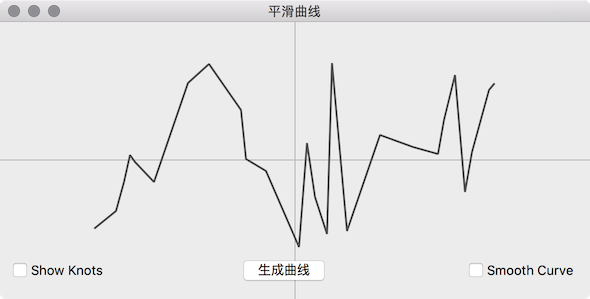
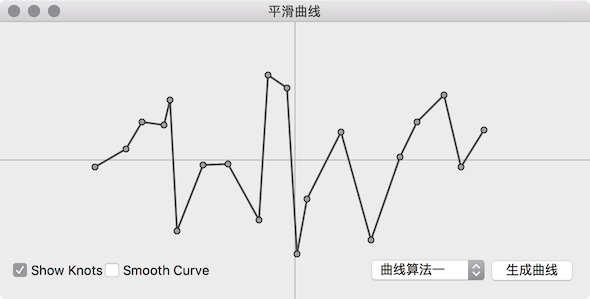
平滑曲线

diff --git a/source/_posts/qtbook-paint-smooth-curve.md b/source/_posts/qtbook-paint-smooth-curve.md
@@ -9,7 +9,7 @@ tags: QtBook
 
 正在聚精会神炒股的老板一瞅，气不打一处来：“你这画的是什么鬼，这个线直来直去的，太不专业了”，抬头指着屏幕上的炒股软件，瞅着迷离的眼神：“看看人家的这个曲线，就像少女的皮肤般那么的柔顺、平滑”，口气马上一百八十度大转弯：“在看看你的，像八十岁老头的那样全是褶皱！” 擦完脸上的口水，赶快想办法去吧。<!--more-->
 
-创建平滑曲线，有很多种方式，可以使用现成的库，例如 QWT，QCustomPlot 等，也可以研究平滑曲线的理论，实现平滑曲线的插值函数。这里我们提供一个实现，利用 QPainterPath，根据曲线上的点创建平滑曲线，使用分三步：
+创建平滑曲线，有很多种方式，可以使用现成的库，例如 QWT，QCustomPlot 等，也可以研究平滑曲线的理论，实现平滑曲线的插值函数。这里我们提供二个实现，利用 QPainterPath，根据曲线上的点创建平滑曲线，他们各有利弊，使用分三步：
 
 ```cpp
 // [1] 把曲线上的点放到 QList 里
@@ -19,31 +19,34 @@ knots << QPointF(x1, y1);
 knots << QPointF(xn, yn);
 
 // [2] 创建平滑曲线
-QPainterPath smoothCurve = SmoothCurveGenerator::generateSmoothCurve(knots);
+QPainterPath smoothCurve1 = SmoothCurveGenerator1::generateSmoothCurve(knots);
+QPainterPath smoothCurve2 = SmoothCurveGenerator2::generateSmoothCurve(knots);
 
 // [3] 绘制曲线
-painter.drawPath(smoothCurve);
+painter.drawPath(smoothCurve1);
+painter.drawPath(smoothCurve2);
 ```
 
 最后画出来的曲线效果如下，这次应该不会被喷了吧：
 
-![](/img/qtbook/paint/Paint-SmoothCurve.png)
+![](/img/qtbook/paint/Paint-SmoothCurve-1.png)  
+![](/img/qtbook/paint/Paint-SmoothCurve-2.png)
 
 Qt 中可以使用 `QPainterPath::cubicTo()` 函数实现绘制平滑曲线，绘制平滑曲线的关键是控制点的计算，sp 为线段的起始点，ep 为线段的终点，c1，c2 为贝塞尔曲线的控制点，其坐标计算如下
 
 ![](/img/qtbook/paint/Paint-SmoothCurve-Theory.png)
 
-类 SmoothCurveGenerator 使用上面的原理生成平滑曲线
+类 SmoothCurveGenerator1 使用上面的原理生成平滑曲线
 
 ```cpp
-#ifndef SMOOTHCURVEGENERATOR_H
-#define SMOOTHCURVEGENERATOR_H
+#ifndef SMOOTHCURVEGENERATOR1_H
+#define SMOOTHCURVEGENERATOR1_H
 
 #include <QList>
 #include <QPointF>
 #include <QPainterPath>
 
-class SmoothCurveGenerator {
+class SmoothCurveGenerator1 {
 public:
     /**
      * 传入曲线上的点的 list，创建平滑曲线
@@ -54,13 +57,13 @@ public:
     static QPainterPath generateSmoothCurve(const QList<QPointF> &points);
 };
 
-#endif // SMOOTHCURVEGENERATOR_H
+#endif // SMOOTHCURVEGENERATOR1_H
 ```
 
 ```cpp
-#include "SmoothCurveGenerator.h"
+#include "SmoothCurveGenerator1.h"
 
-QPainterPath SmoothCurveGenerator::generateSmoothCurve(const QList<QPointF> &points) {
+QPainterPath SmoothCurveGenerator1::generateSmoothCurve(const QList<QPointF> &points) {
     if (points.size() == 0) {
         return QPainterPath();
     }
@@ -82,9 +85,9 @@ QPainterPath SmoothCurveGenerator::generateSmoothCurve(const QList<QPointF> &poi
 }
 ```
 
-接下来就介绍一下 SmoothCurveGenerator 的使用案例，就是开头被喷的那个曲线图的平滑实现。
+接下来就介绍一下生成平滑曲线的具体使用方法，就是开头被喷的那个曲线图的平滑实现。
 
-在 SmoothCurveWidget.ui 上如图放两个 QCheckBox，命名为 showKnotsCheckBox 和 showSmoothCurveCheckBox，还有一个 QPushButton，用于点击重新生成曲线：
+在 SmoothCurveWidget.ui 上如图放两个 QCheckBox，命名为 showKnotsCheckBox 和 showSmoothCurveCheckBox，QPushButton 用于点击重新生成曲线，ComboBox 用于选择生成曲线的算法：
 
 ![](/img/qtbook/paint/Paint-SmoothCurve-Ui.png)
 
@@ -119,7 +122,8 @@ private slots:
 private:
     Ui::SmoothCurveWidget *ui;
     QList<QPointF> knots;        // 曲线上的点
-    QPainterPath smoothCurve;    // 平滑曲线
+    QPainterPath smoothCurve1;   // 平滑曲线
+    QPainterPath smoothCurve2;   // 平滑曲线
     QPainterPath nonSmoothCurve; // 直接连接点的非平滑曲线
 };
 
@@ -129,7 +133,8 @@ private:
 ```cpp
 #include "SmoothCurveWidget.h"
 #include "ui_SmoothCurveWidget.h"
-#include "SmoothCurveGenerator.h"
+#include "SmoothCurveGenerator1.h"
+#include "SmoothCurveGenerator2.h"
 
 #include <QPainter>
 #include <QtGlobal>
@@ -142,6 +147,7 @@ SmoothCurveWidget::SmoothCurveWidget(QWidget *parent) :
     connect(ui->generateCurveButton, SIGNAL(clicked(bool)), this, SLOT(generateCurves()));
     connect(ui->showKnotsCheckBox, SIGNAL(clicked(bool)), this, SLOT(update()));
     connect(ui->showSmoothCurveCheckBox, SIGNAL(clicked(bool)), this, SLOT(update()));
+    connect(ui->smoothCurveGeneratorComboBox, SIGNAL(currentIndexChanged(int)), this, SLOT(update()));
 
     ui->generateCurveButton->click();
 }
@@ -163,7 +169,13 @@ void SmoothCurveWidget::paintEvent(QPaintEvent *) {
 
     // showSmoothCurveCheckBox 被选中时显示平滑曲线，否则显示非平滑曲线
     painter.setPen(QPen(QColor(80, 80, 80), 2));
-    painter.drawPath(ui->showSmoothCurveCheckBox->isChecked() ? smoothCurve : nonSmoothCurve);
+    if (ui->showSmoothCurveCheckBox->isChecked() && ui->smoothCurveGeneratorComboBox->currentIndex() == 0) {
+        painter.drawPath(smoothCurve1);
+    } else if (ui->showSmoothCurveCheckBox->isChecked() && ui->smoothCurveGeneratorComboBox->currentIndex() == 1) {
+        painter.drawPath(smoothCurve2);
+    } else {
+        painter.drawPath(nonSmoothCurve);
+    }
 
     // 如果曲线上的点可见，则显示出来
     if (ui->showKnotsCheckBox->isChecked()) {
@@ -187,7 +199,8 @@ void SmoothCurveWidget::generateCurves() {
     }
 
     // 根据曲线上的点创建平滑曲线
-    smoothCurve = SmoothCurveGenerator::generateSmoothCurve(knots);
+    smoothCurve1 = SmoothCurveGenerator1::generateSmoothCurve(knots);
+    smoothCurve2 = SmoothCurveGenerator2::generateSmoothCurve(knots);
 
     // 连接点创建非平滑曲线曲线
     nonSmoothCurve = QPainterPath();
@@ -215,3 +228,157 @@ int main(int argc, char *argv[]) {
 ```
 
 为了让程序更具有普谝性，曲线上的点采用随机生成，所以每次生成的曲线是不一样的，选中 "Smooth Curve" 时显示为平滑曲线，没有选中则显示为非平滑的曲线。选中 "Show knots" 显示曲线上的点，反之则不显示。
+
+如果仔细观察 SmoothCurveGenerator1 生成的平滑曲线，会发现平滑曲线段之间会有很多小段的抖动，下面提供另一个也是使用 QPainterPath 实现平滑曲线的方法，可以解决平滑曲线段之间的抖动问题，但是曲线段在比较陡时，曲线上的值可能会超出曲线原来值的范围，但是总体上看效果更好，改编自 http://www.codeproject.com/Articles/31859/Draw-a-Smooth-Curve-through-a-Set-of-D-Points-wit，核心是使用曲线上的点计算出贝塞尔曲线的两个控制点，然后使用贝塞尔曲线生成平滑曲线，很惭愧的是生成控制点的算法细节我没看懂，只不过是作了一次搬运工，把程序移植到了 Qt 上，有兴趣的话，请自行参考吧，不过即使没有理解控制点的生成算法也不影响使用。
+
+```cpp
+#ifndef SMOOTHCURVEGENERATOR2_H
+#define SMOOTHCURVEGENERATOR2_H
+
+#include <QList>
+#include <QPointF>
+#include <QPainterPath>
+
+class SmoothCurveGenerator2 {
+public:
+    /**
+     * 传入曲线上的点的 list，创建平滑曲线
+     * @param points - 曲线上的点
+     * @return - 返回使用给定的点创建的 QPainterPath 表示的平滑曲线
+     */
+    static QPainterPath generateSmoothCurve(const QList<QPointF> &points);
+
+private:
+    /**
+     * Solves a tridiagonal system for one of coordinates (x or y)
+     * of first Bezier control points.
+     * @param result - Solution vector.
+     * @param rhs - Right hand side vector.
+     * @param n - Size of rhs.
+     */
+    static void calculateFirstControlPoints(double * &result, const double *rhs, int n);
+
+    /**
+     * Calculate control points of the smooth curve using the given knots.
+     * @param knots - Points of the given curve.
+     * @param firstControlPoints - Store the generated first control points.
+     * @param secondControlPoints - Store the generated second control points.
+     */
+    static void calculateControlPoints(const QList<QPointF> &knots,
+                                       QList<QPointF> *firstControlPoints,
+                                       QList<QPointF> *secondControlPoints);
+};
+
+#endif // SMOOTHCURVEGENERATOR2_H
+```
+
+```cpp
+#include "SmoothCurveGenerator2.h"
+
+QPainterPath SmoothCurveGenerator2::generateSmoothCurve(const QList<QPointF> &points) {
+    QPainterPath path;
+    int len = points.size();
+
+    if (len < 2) {
+        return path;
+    }
+
+    QList<QPointF> firstControlPoints;
+    QList<QPointF> secondControlPoints;
+    calculateControlPoints(points, &firstControlPoints, &secondControlPoints);
+
+    path.moveTo(points[0].x(), points[0].y());
+
+    // Using bezier curve to generate a smooth curve.
+    for (int i = 0; i < len - 1; ++i) {
+        path.cubicTo(firstControlPoints[i], secondControlPoints[i], points[i+1]);
+    }
+
+    return path;
+}
+
+void SmoothCurveGenerator2::calculateFirstControlPoints(double *&result, const double *rhs, int n) {
+    result = new double[n];
+    double *tmp = new double[n];
+    double b = 2.0;
+    result[0] = rhs[0] / b;
+
+    // Decomposition and forward substitution.
+    for (int i = 1; i < n; i++) {
+        tmp[i] = 1 / b;
+        b = (i < n - 1 ? 4.0 : 3.5) - tmp[i];
+        result[i] = (rhs[i] - result[i - 1]) / b;
+    }
+
+    for (int i = 1; i < n; i++) {
+        result[n - i - 1] -= tmp[n - i] * result[n - i]; // Backsubstitution.
+    }
+
+    delete[] tmp;
+}
+
+void SmoothCurveGenerator2::calculateControlPoints(const QList<QPointF> &knots,
+                                                   QList<QPointF> *firstControlPoints,
+                                                   QList<QPointF> *secondControlPoints) {
+    int n = knots.size() - 1;
+
+    for (int i = 0; i < n; ++i) {
+        firstControlPoints->append(QPointF());
+        secondControlPoints->append(QPointF());
+    }
+
+    if (n == 1) {
+        // Special case: Bezier curve should be a straight line.
+        // P1 = (2P0 + P3) / 3
+        (*firstControlPoints)[0].rx() = (2 * knots[0].x() + knots[1].x()) / 3;
+        (*firstControlPoints)[0].ry() = (2 * knots[0].y() + knots[1].y()) / 3;
+
+        // P2 = 2P1 – P0
+        (*secondControlPoints)[0].rx() = 2 * (*firstControlPoints)[0].x() - knots[0].x();
+        (*secondControlPoints)[0].ry() = 2 * (*firstControlPoints)[0].y() - knots[0].y();
+
+        return;
+    }
+
+    // Calculate first Bezier control points
+    double *xs = 0;
+    double *ys = 0;
+    double *rhsx = new double[n]; // Right hand side vector
+    double *rhsy = new double[n]; // Right hand side vector
+
+    // Set right hand side values
+    for (int i = 1; i < n - 1; ++i) {
+        rhsx[i] = 4 * knots[i].x() + 2 * knots[i + 1].x();
+        rhsy[i] = 4 * knots[i].y() + 2 * knots[i + 1].y();
+    }
+    rhsx[0] = knots[0].x() + 2 * knots[1].x();
+    rhsx[n - 1] = (8 * knots[n - 1].x() + knots[n].x()) / 2.0;
+    rhsy[0] = knots[0].y() + 2 * knots[1].y();
+    rhsy[n - 1] = (8 * knots[n - 1].y() + knots[n].y()) / 2.0;
+
+    // Calculate first control points coordinates
+    calculateFirstControlPoints(xs, rhsx, n);
+    calculateFirstControlPoints(ys, rhsy, n);
+
+    // Fill output control points.
+    for (int i = 0; i < n; ++i) {
+        (*firstControlPoints)[i].rx() = xs[i];
+        (*firstControlPoints)[i].ry() = ys[i];
+
+        if (i < n - 1) {
+            (*secondControlPoints)[i].rx() = 2 * knots[i + 1].x() - xs[i + 1];
+            (*secondControlPoints)[i].ry() = 2 * knots[i + 1].y() - ys[i + 1];
+        } else {
+            (*secondControlPoints)[i].rx() = (knots[n].x() + xs[n - 1]) / 2;
+            (*secondControlPoints)[i].ry() = (knots[n].y() + ys[n - 1]) / 2;
+        }
+    }
+
+    delete xs;
+    delete ys;
+    delete[] rhsx;
+    delete[] rhsy;
+}
+```
+
+相信还有其他用于生成平滑曲线的方法，甚至可以同时解决 SmoothCurveGenerator1 和 SmoothCurveGenerator2 的问题，这个需要大家继续深入的研究了。
